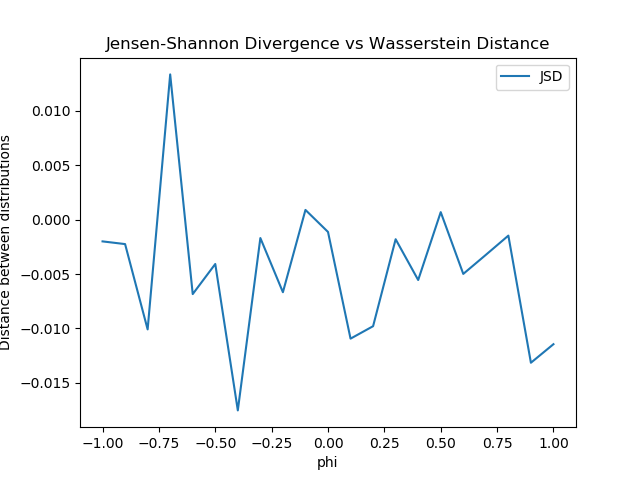
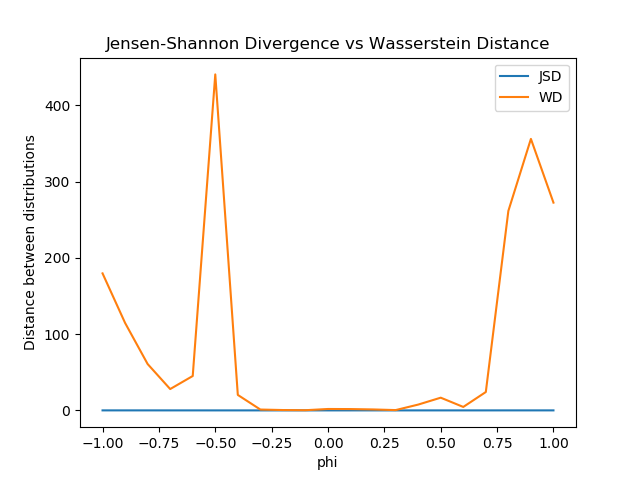
Now we're getting somewhere... GP potentially fixed, but JSD scale questionable

diff --git a/problem1/mlp.py b/problem1/mlp.py
@@ -24,20 +24,22 @@ class MLP3Layer(nn.Module):
         self.relu = nn.ReLU()
         self.sigmoid = nn.Sigmoid()
 
-    def forward(self, inp):
+    def forward(self, inp, dist_type='jsd'):
         # Keep gradient at this point for WD gradient penalty
-        self.inp = Variable(inp, requires_grad=True)
-        self.inp.retain_grad()
+        #self.inp = Variable(inp, requires_grad=True)
+        #self.inp.retain_grad()
 
         # Begin fprop
-        out = self.fc1(self.inp)
+        out = self.fc1(inp)
         out = self.relu(out)
         out = self.fc2(out)
         out = self.relu(out)
         out = self.fc3(out)
         out = self.relu(out)
         out = self.output(out)
-        out = self.sigmoid(out)
+        if dist_type == 'jsd':
+            # WGAN-GP discriminator, importantly, JUST does regression, no squishing
+            out = self.sigmoid(out)
         return out
 
 
@@ -57,11 +59,26 @@ class MLP():
     def save_model(self, save_path):
         torch.save(self.model.state_dict(), save_path)
 
-    def train(self, p, q, loss_fn=None, lr=1e-3, num_epochs=10, dist_type='jsd'):
+    def get_grad(self, x, y):
+        '''
+        Gets the gradient needed for gradient penalty.
+        '''
+        z = get_z(x, y)
+        #z = Variable(z, requires_grad=True)
+        z.requires_grad = True
+        Dz = self.model(z, dist_type='wd')
+        #print('Dz mean:', Dz.mean())
+        #Dz.mean().backward()
+        Dz.backward(torch.ones_like(Dz))
+        grad = z.grad
+        return grad
+
+    def train(self, p, q, loss_fn=None, lr=1e-3, num_epochs=60, dist_type='jsd'):
         '''
         This function trains to get D_theta or T_theta in the Latex.
         '''
         optimizer = torch.optim.SGD(self.model.parameters(), lr=lr)
+        self.loss_fn = loss_fn
         self.model.train()
 
         for epoch in range(num_epochs):
@@ -72,22 +89,29 @@ class MLP():
 
             # Forward pass
             optimizer.zero_grad()
-            Dx = self.model(x)
-            Dy = self.model(y)
+            Dx = self.model(x, dist_type=dist_type)
+            Dy = self.model(y, dist_type=dist_type)
             grad = None
 
             # Account for WD gradient penalty
             if dist_type == 'wd':
-                z = get_z(x, y)
-                Dz = self.model(z)
-                grad = torch.autograd.grad(Dz.mean(), self.model.inp, retain_graph=True)
+                '''z = get_z(x, y)
+                z = Variable(z, requires_grad=True)
+                Dz = self.model(z, dist_type='wd')
+                #grad = torch.autograd.grad(Dz.mean(), self.model.inp, retain_graph=True)
+                Dz[0].backward()
+                grad = z.grad
+                #print('grad:', grad)'''
+                grad = self.get_grad(x, y)
+                optimizer.zero_grad()
 
             # Backward pass
             loss = loss_fn(Dx, Dy, grad=grad)
             loss.backward()
             optimizer.step()
 
-            print('Epoch {}: \t Loss: {}'.format(epoch, loss))
+            if epoch % 100 == 0:
+                print('Epoch {}: \t Loss: {}'.format(epoch, loss))
 
     def estimate_jsd(self, x, y):
         '''
@@ -97,8 +121,8 @@ class MLP():
         x = torch.from_numpy(x).float().to(self.device)
         y = torch.from_numpy(y).float().to(self.device)
 
-        Dx = self.model(x)
-        Dy = self.model(y)
+        Dx = self.model(x, dist_type='jsd')
+        Dy = self.model(y, dist_type='jsd')
 
         Ex = 0.5 * torch.log(Dx).mean()
         Ey = 0.5 * torch.log(1 - Dy).mean()
@@ -113,15 +137,19 @@ class MLP():
         x = torch.from_numpy(x).float().to(self.device)
         y = torch.from_numpy(y).float().to(self.device)
 
-        Dx = self.model(x)
-        Dy = self.model(y)
-        z = get_z(x, y)
-        Dz = self.model(z)
-        grad = torch.autograd.grad(Dz.mean(), self.model.inp, retain_graph=True)
+        Dx = self.model(x, dist_type='wd')
+        Dy = self.model(y, dist_type='wd')
+        '''z = get_z(x, y)
+        Dz = self.model(z, dist_type='wd')
+        grad = torch.autograd.grad(Dz.mean(), self.model.inp, retain_graph=True)'''
+        grad = self.get_grad(x, y)
 
-        grad = grad[0]  # Take first item in mysterious tuple
+        '''grad = grad[0]  # Take first item in mysterious tuple
         grad_penalty = lamb * (torch.norm(grad, 2) - 1).pow(2).mean()
-        wd = Dx.mean() - Dy.mean() + grad_penalty
+        wd = Dx.mean() - Dy.mean() - grad_penalty'''
+        loss = self.loss_fn(Dx, Dy, grad=grad)
+        #wd = -1 * loss  # The loss function flips sign to maximize, so flip it back
+        wd = loss
         return wd
 
     def estimate_unk(self, x, f0_x):

diff --git a/problem1/q1_3.py b/problem1/q1_3.py
@@ -9,10 +9,22 @@ sys.path.append("../..")
 import numpy as np
 import json
 import torch
+import matplotlib.pyplot as plt
 
 from assignment.samplers import distribution1
 from assignment.problem1.mlp import MLP
 from assignment.problem1.loss_functions import jsd_loss, wd_loss
+
+
+def plot(phi, jsds, wds):
+    plt.plot(phi, jsds, label='JSD')
+    plt.plot(phi, wds, label='WD')
+    plt.title('Jensen-Shannon Divergence vs Wasserstein Distance')
+    plt.xlabel('phi')
+    plt.ylabel('Distance between distributions')
+    plt.legend()
+    plt.savefig('q1_3.png')
+    plt.clf()
 
 
 if __name__ == '__main__':
@@ -41,11 +53,11 @@ if __name__ == '__main__':
         # Train discriminators
         print('Training JSD...')
         jsd = MLP(jsd_config, device=device)
-        jsd.train(p, q, loss_fn=jsd_loss, dist_type='jsd')
+        jsd.train(p, q, loss_fn=jsd_loss, dist_type='jsd', num_epochs=800)
 
         print('Training WD...')
         wd = MLP(wd_config, device=device)
-        wd.train(p, q, loss_fn=wd_loss, dist_type='wd')
+        wd.train(p, q, loss_fn=wd_loss, dist_type='wd', num_epochs=400)
 
         # Sample from p and q
         x = next(p)
@@ -90,3 +102,5 @@ if __name__ == '__main__':
     print('wds:', wds)
     data = np.array([phi, jsds, wds])
     np.save('q1_3.npy', data)
+
+    plot(phi, jsds, wds)

diff --git a/problem1/loss_functions.py b/problem1/loss_functions.py
@@ -22,10 +22,21 @@ def wd_loss(Dx, Dy, grad=None, lamb=10):
     '''
     Objective function for the Wasserstein Distance.
     '''
-    grad = grad[0]  # Take first item in mysterious tuple
-    grad_penalty = lamb * (torch.norm(grad, 2) - 1).pow(2).mean()
-    print('grad penalty:', grad_penalty)
-    loss = Dx.mean() - Dy.mean() - grad_penalty
+    #grad = grad[0]  # Take first item in mysterious tuple
+    #print('norm:', torch.norm(grad))
+    #print('norm-1 :', (torch.norm(grad) - 1))
+    #print('norm-1 pow:', (torch.norm(grad) - 1).pow(2))
+    grad_penalty = lamb * (torch.norm(grad) - 1).pow(2).mean()
+    #print('grad_penalty:', grad_penalty)
+    
+
+    #loss = Dx.mean() - Dy.mean() - grad_penalty
+    #loss = Dy.mean() - Dx.mean() - grad_penalty
+    loss = Dy.mean() - Dx.mean() + grad_penalty
+    #loss = Dx.mean() - Dy.mean() + grad_penalty
+
+
+
     # We want to maximize this objective, not minimize it, so we negate it
-    loss = -1 * loss
+    #loss = -1 * loss
     return loss

diff --git a/problem1/q1_3_plot.py b/problem1/q1_3_plot.py
@@ -12,7 +12,8 @@ import matplotlib.pyplot as plt
 
 def plot(phi, jsds, wds):
     plt.plot(phi, jsds, label='JSD')
-    #plt.plot(phi, wds, label='WD')
+    plt.plot(phi, wds, label='WD')
+    plt.yscale('log') 
     plt.title('Jensen-Shannon Divergence vs Wasserstein Distance')
     plt.xlabel('phi')
     plt.ylabel('Distance between distributions')
